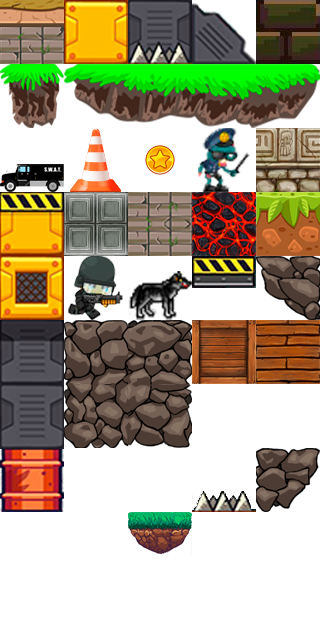
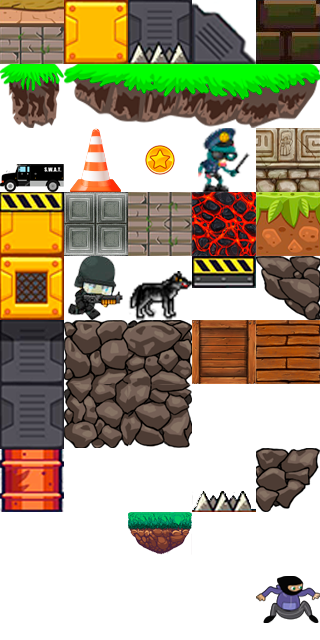
actualizacion
jugador caminando y colisionando, salto reparado, falta agregar restriccion de salto solo si hay friccion, animacion y camara pendientes

Changed region(s): [[0.7812, 0.875, 1.0, 1.0]]

diff --git a/Classes/CapuchoMAN.py b/Classes/CapuchoMAN.py
@@ -4,24 +4,28 @@ import sys
 from Classes.Maths import *
 from Classes.Inputs import *
 from Classes.Animation import *
+from Constants import *
 
 
 
 class CapuchoMAN(pg.sprite.Sprite):
     def __init__(self):
-        self.posInicial = [128,128]
+        #super().__init__()
+        pg.sprite.Sprite.__init__(self)
         self.input = Inputs(self)
         self.vidas = 3
         self.salud = 1000
         self.puntos = 0
-        self.states = {"jump": True, "pause": False, "direction": 1}
+        self.states = {"jump": False, "pause": False, "direction": 1}
 
-        self.mask = None
-        self.animation = Animation(self,"./Graphics/saltando (64x47).png",
-                                        "./Graphics/CapMAN.png",[41,60], 6, 5, 28)
-        self.animation.main()
-        self.rect.x = self.posInicial[0]
-        self.rect.y = self.posInicial[1]
+        self.image = pg.surface.Surface([41,60])
+        self.image.fill(VERDE)
+        self.rect = self.image.get_rect()
+        self.rect.x = 180
+        self.rect.y = 180
+
+        #self.animation = Animation(self,"./Graphics/saltando (64x47).png",
+        #                                "./Graphics/CapMAN.png",[41,60], 6, 5, 28)
 
         self.vel = Vec2D()
         self.walls = None
@@ -30,27 +34,27 @@ class CapuchoMAN(pg.sprite.Sprite):
         self.gravedad = 3.5
 
     def update(self):
+        #self.animation.update()
         self.input.checkInputs()
         self.move()
         self.gravity()
-        self.animation.update()
+        print("pos capucho: ",self.rect.x," ",self.rect.y)
+        print("velx: ",self.vel.x," vely: ",self.vel.y)
+        print(self.states["jump"])
+        print(" ")
 
     def move(self):
-        self.rect.x += self.vel.x
+        self.rect.x = int(self.rect.x + self.vel.x)
         self.checkCollisionX()
-        self.rect.y += self.vel.y
+        self.rect.y = int(self.rect.y + self.vel.y)
         self.checkCollisionY()
 
     def gravity(self):
         self.vel.y += self.gravedad
 
-    def animation(self):
-        self.frame = animate(self.frame, 28, self.direccion)
-        self.image = self.animacion[self.aux_animacion][self.frame]
-        self.mask = pg.mask.from_surface(self.image)
-
     def checkCollisionX(self):
-        collisionList = pg.sprite.spritecollide(self,self.bloques,False,pg.sprite.collide_mask)
+        collisionList = pg.sprite.spritecollide(self,self.walls,False)#,pg.sprite.collide_mask)
+        print("colision en x: ",len(collisionList))
         if collisionList:
             for b in collisionList:
                 if ((self.rect.right >= b.rect.left) and (self.rect.right <= b.rect.right)):
@@ -59,17 +63,18 @@ class CapuchoMAN(pg.sprite.Sprite):
                     self.rect.left = b.rect.right
 
     def checkCollisionY(self):
-        collisionList = pg.sprite.spritecollide(self,self.bloques,False,pg.sprite.collide_mask)
+        collisionList = pg.sprite.spritecollide(self,self.walls,False)#,pg.sprite.collide_mask)
+        print("colision en y: ",len(collisionList))
         if collisionList:
             for b in collisionList:
-                if ((self.rect.bottom >= b.rect.top) and (self.rect.bottom <= b.rect.bottom)):
-                    self.vely = 0
-                    self.saltando = False
+                if self.rect.bottom >= b.rect.top:#((self.rect.bottom >= b.rect.top) and (self.rect.bottom <= b.rect.bottom)):
+                    self.vel.y = 0
+                    self.states["jump"] = False
                     self.rect.bottom = b.rect.top
-                elif ((self.rect.top <= b.rect.bottom) and (self.rect.top >= b.rect.top)):
-                    self.vely = 0
+                elif self.rect.top <= b.rect.bottom:#((self.rect.top <= b.rect.bottom) and (self.rect.top >= b.rect.top)):
+                    self.vel.y = 0
                     self.rect.top = b.rect.bottom
-                    self.vely += self.gravedad
+                    self.vel.y += self.gravedad
 
     def checkEstado(self):
         if (self.rect.bottom > ALTO + 100) or (self.time == '0:00'):

diff --git a/Controllers/GameController.py b/Controllers/GameController.py
@@ -5,60 +5,54 @@ from Classes.Camera import *
 from Constants import *
 from Controllers.RoomLoader import *
 
+from Classes.CapuchoMAN import *
+from Classes.GUI import *
+
 #######################################
 # OJO SI NO SE HACEN LAS COLISIONES CON ESTO NO FUNCIONA LA MASCARA
 # collide_mask (sprite1, sprite2) -> (int, int)
 #########################################################
-'''
-self.groups = {"player": player,
-                "molotovs": molotovs,
-                "door": door,
-                "nails": nails,
-                "platforms": platforms,
-                "walls": walls,
-                "enemys": enemys,
-                "coins": coins}
-'''
-
 
 class GameController:
-    # aqui va el metodo o variable estatica gameStates
-
-    def __init__(self,capuchoMan,gui,soundPlayer):
+    def __init__(self,soundPlayer):
         self.clock = pg.time.Clock()
-        self.capuchoMan = capuchoMan
-        self.gui = gui
+        self.capuchoMan = CapuchoMAN()
+        self.gui = GUI(self.capuchoMan)
         self.soundPlayer = soundPlayer
         self.gameOver = False
 
-        self.player =  pg.sprite.Group()
+        self.player = pg.sprite.Group()
+        self.player.add(self.capuchoMan)
         self.molotovs =  pg.sprite.Group()
+
         self.door =  pg.sprite.Group()
         self.nails =  pg.sprite.Group()
-        self.platforms =  pg.sprite.Group()
         self.walls =  pg.sprite.Group()
         self.enemys =  pg.sprite.Group()
         self.coins =  pg.sprite.Group()
 
-        self.level = RoomLoader(capuchoMan,self.door,self.nails,self.platforms,self.walls,self.enemys,self.coins)
+        self.level = RoomLoader(self.capuchoMan,self.door,self.nails,self.walls,self.enemys,self.coins)
         #self.collisions = CollisionController()
-
 
     def main(self):
         while not self.gameOver:
             self.level.update()
             self.capuchoMan.update()
-            self.gui.update()
             #self.collisions()
-            self.checkGameOver()
+            #self.checkGameOver()
             self.checkSound()
 
             self.clock.tick(FPS)
-            pg.display.flip()
+            self.drawGame()
+            self.gui.update()
 
-    def drawGroups(self):
-        for group in groups:
-            group.draw(INTERFACE)
+    def drawGame(self):
+        INTERFACE.fill(NEGRO)
+        INTERFACE.blit(self.level.background,[0,0])
+        INTERFACE.blit(self.capuchoMan.image,[self.capuchoMan.rect.x,self.capuchoMan.rect.y])
+        #self.enemy.draw(INTERFACE)
+        #self.coins.draw(INTERFACE)
+        pg.display.flip()
 
     def checkSound(self):
         if not self.gameOver:

diff --git a/Controllers/RoomLoader.py b/Controllers/RoomLoader.py
@@ -9,7 +9,7 @@ from Classes.Nails import *
 ###   ASEPRITE (es de pago pero se puede pirata)
 
 class RoomLoader:
-    def __init__(self,capuchoMan,door,nails,platforms,walls,enemys,coins):
+    def __init__(self,capuchoMan,door,nails,walls,enemys,coins):
         self.mapInfo = None
         self.countUP = 0
         self.alarm = True
@@ -18,7 +18,6 @@ class RoomLoader:
         self.capuchoMan = capuchoMan
         self.door = door
         self.nails = nails
-        self.platforms = platforms
         self.walls = walls
         self.enemys = enemys
         self.coins = coins
@@ -67,6 +66,7 @@ class RoomLoader:
         Information.close()
 
         #Extraccion Objetos Json
+        _capuchoMAN = self.mapInfo['layers'][7]['objects']
         _door = self.mapInfo['layers'][6]['objects']
         _nails = self.mapInfo['layers'][5]['objects']
         _platforms = self.mapInfo['layers'][4]['objects']
@@ -75,7 +75,6 @@ class RoomLoader:
         _coins = self.mapInfo['layers'][1]['objects']
 
         #Creacion de las paredes
-        print(_walls)
         for i in range(len(_walls)):
             temp = Walls((_walls[i]['x']),(_walls[i]['y']),_walls[i]['width'],_walls[i]['height'])
             self.walls.add(temp)
@@ -92,5 +91,10 @@ class RoomLoader:
             temp = Nails((_nails[i]['x']),(_nails[i]['y']),_nails[i]['width'],_nails[i]['height'])
             self.nails.add(temp)
 
+        ############## ZONA DE ACTUALIZACION DEL JUGADOR CON RELACION AL MAPA ACTUAL
+        ############## PREFERIBLEMENTE CREAR METODO EN EL JUGADOR PARA HACER ESTO
+        #### posicion inicial del jugador para este mapa
+        #self.capuchoMan.rect.x = int(_capuchoMAN[0]['x'])
+        #self.capuchoMan.rect.y = int(_capuchoMAN[0]['y'])
         #carga en capuchoMan las paredes para verificar por donde caminar
         self.capuchoMan.walls = self.walls

diff --git a/Classes/Inputs.py b/Classes/Inputs.py
@@ -1,6 +1,6 @@
 import pygame as pg
 from pygame.locals import *
-#from pygame.keys import *
+#from pygame.key import *
 import sys
 
 
@@ -20,29 +20,29 @@ class Inputs:
             self.controls(keys)
 
     def controls(self,keys):
-        if keys[a]:
+        if keys[K_a]:
             self.capuchoMan.states["direction"] = -1
             self.capuchoMan.vel.x = -7
-        elif keys[d]:
+        elif keys[K_d]:
             self.capuchoMan.states["direction"] = 1
             self.capuchoMan.vel.x = 7
         else:
             self.capuchoMan.states["direction"] = 0
             self.capuchoMan.vel.x = 0
 
-        if keys[LSHIFT]:
+        if keys[K_LSHIFT]:
             self.capuchoMan.vel.x *= 2
 
-        if keys[SPACE]:
+        if keys[K_SPACE]:
             self.jumping()
 
-        if keys[j]:
+        if keys[K_j]:
             #self.disparar()
             pass
 
     def jumping(self):
-        if not self.capuchoMan.states["saltando"]:
-            self.capuchoMan.states["saltando"] = True
+        if not self.capuchoMan.states["jump"]:
+            self.capuchoMan.states["jump"] = True
             self.capuchoMan.vel.y = -36
 
     def _exit(self):

diff --git a/Classes/Animation.py b/Classes/Animation.py
@@ -13,7 +13,6 @@ class Animation:
         self.frame = 0
         self.numberFrames = len(self.animations[0])
 
-    def main(self):
         self.object.image = self.animations[0][0]
         self.object.mask = pg.mask.from_surface(self.object.image)
         self.object.rect = self.object.image.get_rect()
@@ -67,8 +66,8 @@ class Animation:
                             image = pg.transform.flip(image, True, False)
                             left.append(image)
                         i += 1
-        animation.append(left)
         animation.append(right)
+        animation.append(left)
         return animation
 
     def animate(self):

diff --git a/Classes/GUI.py b/Classes/GUI.py
@@ -86,11 +86,3 @@ class GUI():
 
         INTERFACE.blit(self.fuente.render(self.time,True,NEGRO),self.posTime)
         self.CapuchoMAN.setTime(self.time)
-
-    def checkEstado(self,gameOver):
-        if gameOver:
-            self.conFPS = 0
-            self.seg = 0
-            self.min = 1
-            self.time = None
-            self.CapuchoMAN.setTime(self.time)

diff --git a/Entities/BaseBlock.py b/Entities/BaseBlock.py
@@ -5,7 +5,7 @@ from Constants import *
 
 class BaseBlock(pg.sprite.Sprite):
     def __init__(self,x,y,width,height):
-        #super().__init__()
+        super().__init__()
         self.image = pg.Surface([width,height])
         self.rect = self.image.get_rect()
         self.rect.x = x

diff --git a/main.py b/main.py
@@ -16,10 +16,7 @@ def main():
     while not menu.start:
         menu.update()
 
-    capuchoMan = CapuchoMAN()
-    gui = GUI(capuchoMan)
-
-    playing = GameController(capuchoMan,gui,soundPlayer)
+    playing = GameController(soundPlayer)
     playing.main()
     #main()
 
